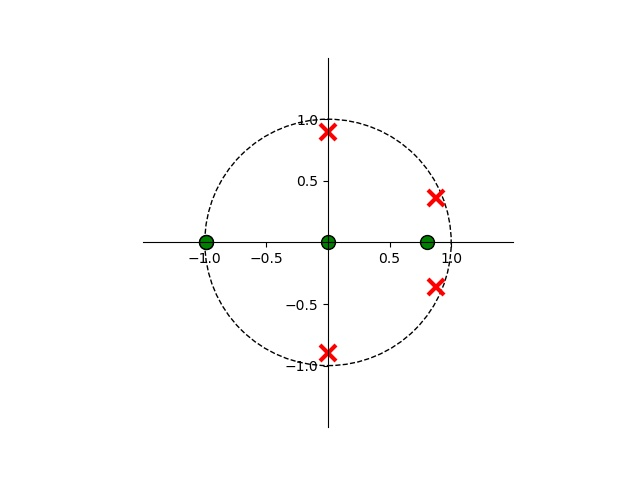
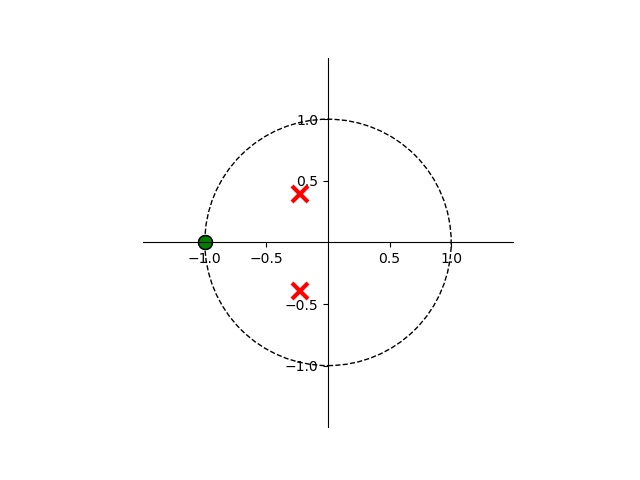
Correction compression + verification bilineaire

diff --git a/problematique/problematique_pels1201_thuz3401.py b/problematique/problematique_pels1201_thuz3401.py
@@ -153,23 +153,59 @@ def enlever_bruit(img_bruit):
 
     return img_sortie
 
+def bilineraire(img_bruit):
+    fs = 1600  # Hz
+    fc = 500 # Hz
+
+    numerateurs = np.array([0.418, 0.836, 0.418])
+    denominateurs = np.array([1, 0.462, 0.21])
+
+    plt.figure()
+    zeros, poles, k = zplane(numerateurs, denominateurs, 'fonction_transfert.jpg')
+
+    print('zeros = ', zeros)
+    print('poles = ', poles)
+
+    img_sortie = signal.lfilter(numerateurs, denominateurs, img_bruit)
+
+    plt.figure()
+    plt.imshow(img_sortie)
+    plt.title('img_sortie filtree avec filtre Butterworth ordre 2 calcule a la main')
+    plt.show()
+
+    plt.show()
+
 # **********************************************************************************************************************
 # 4. Compression
 # **********************************************************************************************************************
 # Retirer 50 pourcent des lignes
+# def retirer_50(img):
+#     new_img = np.zeros([img.shape[0], img.shape[1]])
+#     for i in range(new_img.shape[0]):
+#         if (i % 2 == 0):
+#             for j in range(new_img.shape[1]):
+#                 new_img[i][j] = img[i][j]
+#     return new_img
+
 def retirer_50(img):
     new_img = np.zeros([img.shape[0], img.shape[1]])
-    for i in range(new_img.shape[0]):
-        if (i % 2 == 0):
+    for i in range(int(img.shape[0] * 0.5)):
             for j in range(new_img.shape[1]):
                 new_img[i][j] = img[i][j]
     return new_img
 
 # Retirer 70 pourcent des lignes
+# def retirer_70(img):
+#     new_img = np.zeros([img.shape[0], img.shape[1]])
+#     for i in range(new_img.shape[0]):
+#         if (i % 10 < 3):
+#             for j in range(new_img.shape[1]):
+#                 new_img[i][j] = img[i][j]
+#     return new_img
+
 def retirer_70(img):
     new_img = np.zeros([img.shape[0], img.shape[1]])
-    for i in range(new_img.shape[0]):
-        if (i % 10 < 3):
+    for i in range(int(img.shape[0] * 0.3)):
             for j in range(new_img.shape[1]):
                 new_img[i][j] = img[i][j]
     return new_img
@@ -206,23 +242,29 @@ def compression(img_complete):
     #     matrice_passage.append(vecteur_propre)
     # print(matrice_passage)
 
-    img_compresse = np.matmul(img_complete, m_p)
-
-    img_compresse = retirer_70(img_compresse)
-
-    plt.figure()
-    plt.imshow(img_compresse)
-    plt.title('img_compresse')
-    # plt.show()
-
-    img_decompresse = np.matmul(img_compresse, m_p_inv)
+    img_compresse = np.matmul(np.transpose(m_p), img_complete)
+    img_compresse_50 = retirer_50(img_compresse)
+    img_compresse_70 = retirer_70(img_compresse)
 
     plt.figure()
-    plt.imshow(img_decompresse)
-    plt.title('img_decompresse')
+    plt.imshow(img_compresse_50)
+    plt.title('img_compresse_50')
+
+    plt.figure()
+    plt.imshow(img_compresse_70)
+    plt.title('img_compresse_70')
+
+    img_decompresse_50 = np.matmul(np.linalg.inv(np.transpose(m_p)), img_compresse_50)
+    img_decompresse_70 = np.matmul(np.linalg.inv(np.transpose(m_p)), img_compresse_70)
+
+    plt.figure()
+    plt.imshow(img_decompresse_50)
+    plt.title('img_decompresse_50')
+
+    plt.figure()
+    plt.imshow(img_decompresse_70)
+    plt.title('img_decompresse_70')
     plt.show()
-
-
 
 # **********************************************************************************************************************
 # Main
@@ -231,8 +273,7 @@ if __name__ == '__main__':
     img = correction_abberations()
     img = rotation(img)
     img = enlever_bruit(img)
-    # img = np.load("image_complete.npy")
-    # img = mpimg.imread('imagecouleur.png')
-    # img = np.mean(img, -1)
-    # print(img)
+    # bilineraire(img)
     compression(img)
+
+    plt.show()
